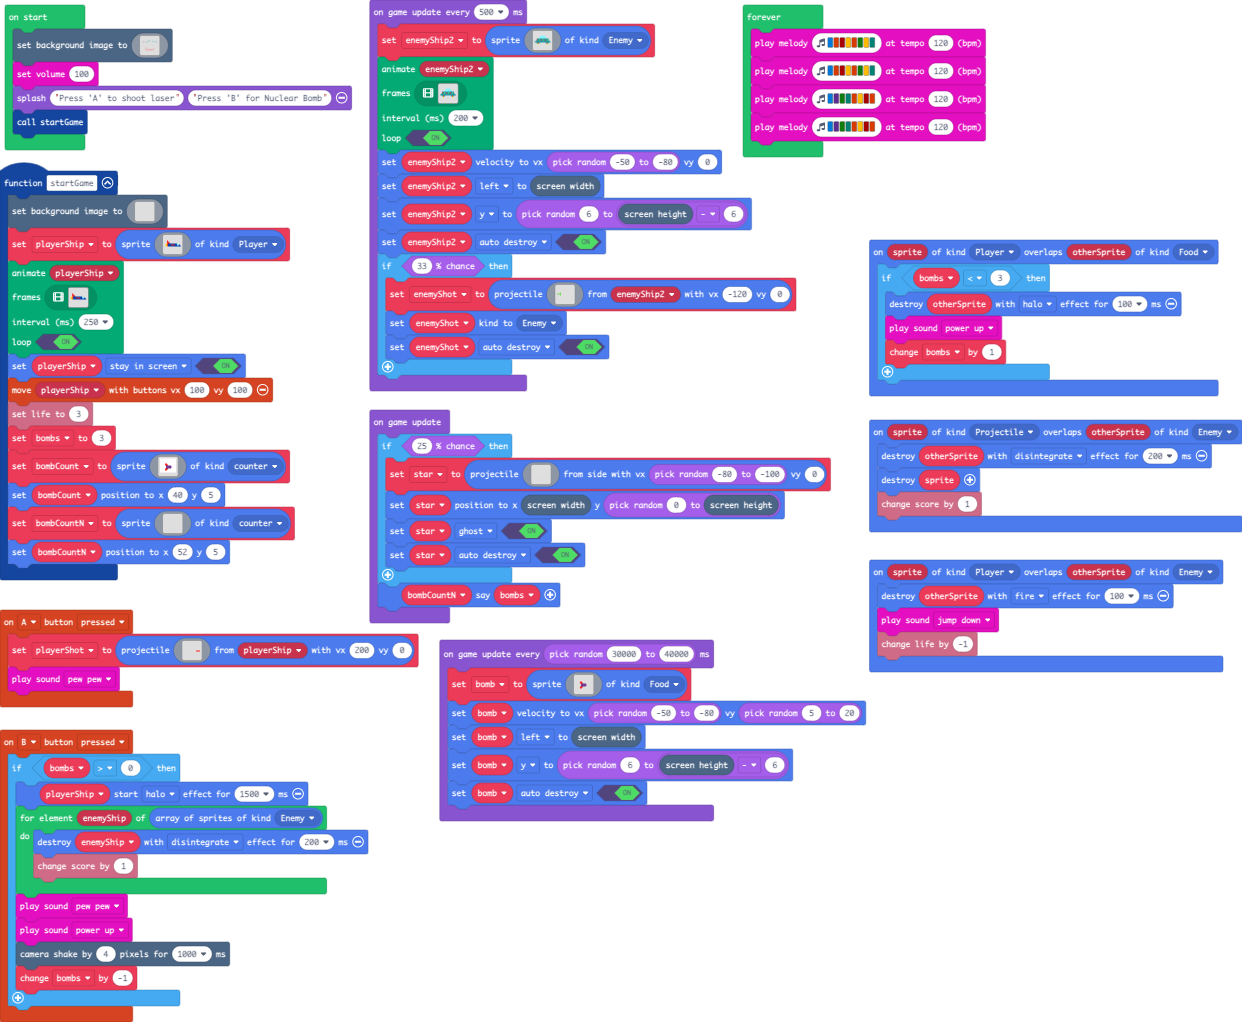
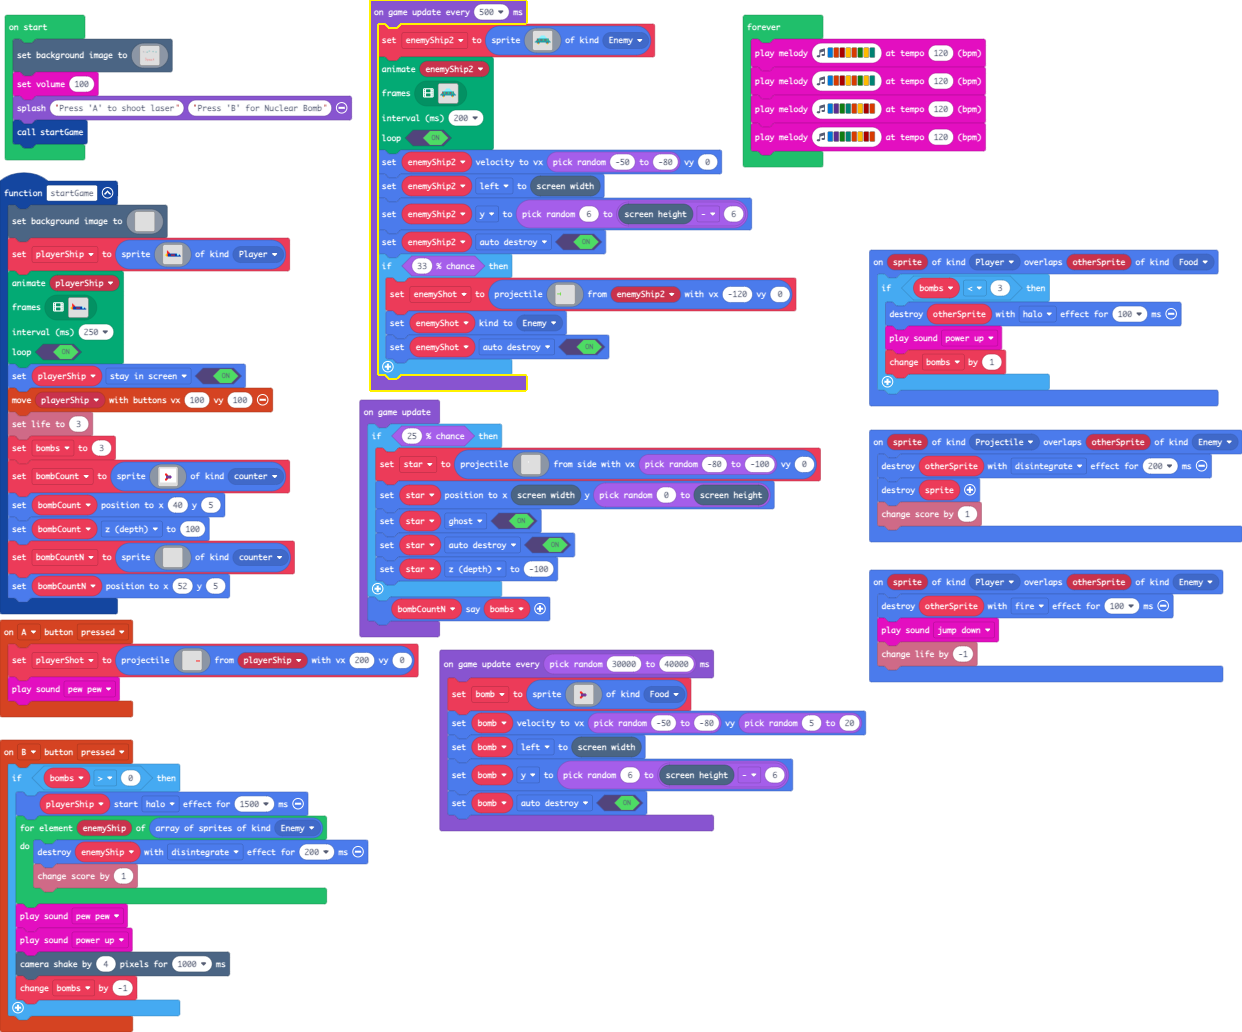
zdepth modifications

Changed region(s): [[0.0, 0.0, 0.7955, 0.9706], [0.7037, 0.2123, 1.0, 0.6673]]

diff --git a/main.ts b/main.ts
@@ -155,6 +155,7 @@ function startGame () {
     bombs = 3
     bombCount = sprites.create(assets.image`bcounter`, SpriteKind.counter)
     bombCount.setPosition(40, 5)
+    bombCount.z = 100
     bombCountN = sprites.create(assets.image`image5`, SpriteKind.counter)
     bombCountN.setPosition(52, 5)
 }
@@ -194,6 +195,7 @@ game.onUpdate(function () {
         star.setPosition(scene.screenWidth(), randint(0, scene.screenHeight()))
         star.setFlag(SpriteFlag.Ghost, true)
         star.setFlag(SpriteFlag.AutoDestroy, true)
+        star.z = -100
     }
     bombCountN.say(bombs)
 })
